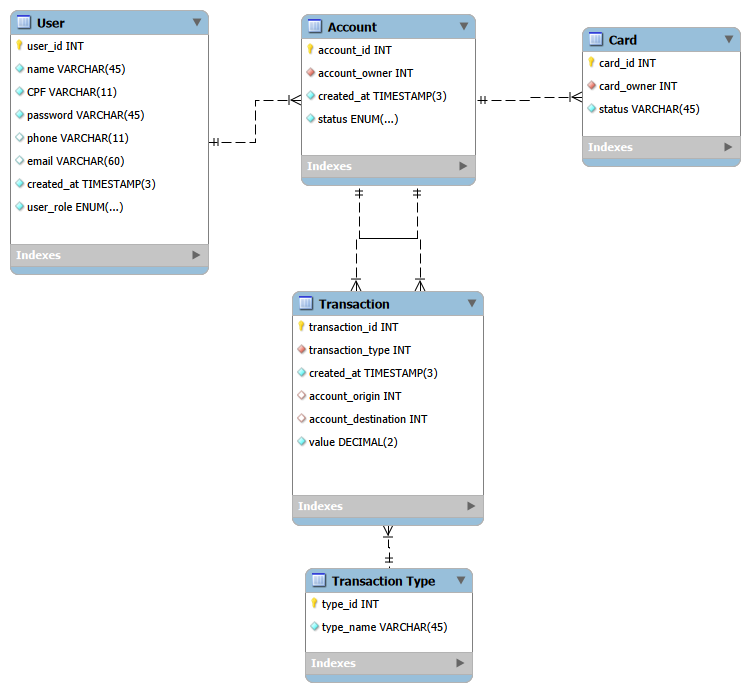
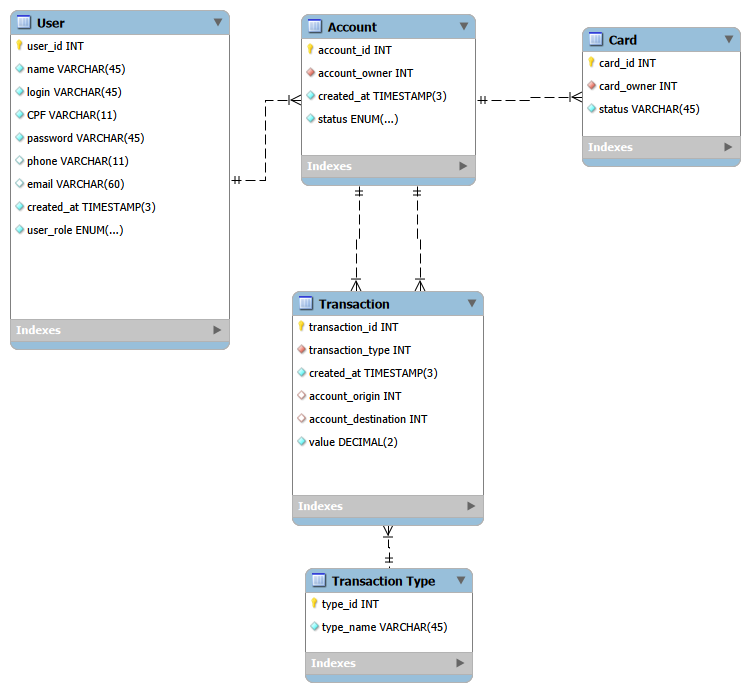
feat/fix: Fixing auth and identity to suport login and creating an admin user by default

diff --git a/src/identity/identity.service.ts b/src/identity/identity.service.ts
@@ -1,16 +1,36 @@
-import { Injectable } from '@nestjs/common';
+import { Injectable, OnModuleInit } from '@nestjs/common';
 import { InjectRepository } from '@nestjs/typeorm';
 import { User } from './models/User';
 import { Repository } from 'typeorm';
 import { UserSave, UserUpdate } from './dto/UserSave';
 import { UserNotFoundException } from './exceptions/UserNotFound';
+import { UserRole } from 'src/auth/roles';
+import { hash, genSalt } from 'bcrypt';
 
 @Injectable()
-export class IdentityService {
+export class IdentityService implements OnModuleInit{
     constructor(
         @InjectRepository(User)
         private userRepository: Repository<User>,
     ) {}
+    
+    async onModuleInit() {
+        const user = await this.userRepository.findOneBy({login: process.env.ADMIN_LOGIN ?? ""})
+
+        if(user == null) {
+            this.userRepository.save(new UserSave(
+                'admin', 
+                process.env.ADMIN_LOGIN ?? "",
+                await hash(process.env.ADMIN_PASSWORD ?? "", await genSalt()),
+                "00000000000",
+                "",
+                "",
+                new Date(Date.now()), 
+                UserRole.manager)
+            );
+        }
+    
+    }
 
     public save (user: UserSave) {
         return this.userRepository.save(user);
@@ -22,6 +42,16 @@ export class IdentityService {
 
     public async findById(id: string) {
         const user = await this.userRepository.findOneBy({user_id: id});
+
+        if(user == null) {
+            throw new UserNotFoundException();
+        }
+
+        return user;
+    }
+
+    public async findByLogin(login: string) {
+        const user = await this.userRepository.findOneBy({login: login});
 
         if(user == null) {
             throw new UserNotFoundException();

diff --git a/src/identity/dto/UserMapper.ts b/src/identity/dto/UserMapper.ts
@@ -7,7 +7,7 @@ import { UserSave } from "./UserSave";
 export class UserMapper {
 
     static toUserSaveDto(user: UserRequest, password: string, created_at: Date, user_role: UserRole): UserSave {
-        return new UserSave(user.name, password, user.cpf, user.phone, user.email, created_at, user_role);
+        return new UserSave(user.name, user.login, password, user.cpf, user.phone, user.email, created_at, user_role);
     }
 
     static toUserResponseDto(user : User) : UserResponse {
@@ -15,7 +15,9 @@ export class UserMapper {
         const sanitizedPhone = user.phone ?? "";
         const sanitizedEmail = user.email ?? "";
 
-        return new UserResponse(user.user_id, user.name, user.password, user.cpf, sanitizedPhone, sanitizedEmail, user.created_at, userRoleName);
+        console.log(user.login);
+
+        return new UserResponse(user.user_id, user.name, user.login, user.password, user.cpf, sanitizedPhone, sanitizedEmail, user.created_at, userRoleName);
     }
 
 }

diff --git a/src/auth/auth.controller.ts b/src/auth/auth.controller.ts
@@ -16,13 +16,14 @@ export class AuthController {
     @HttpCode(200)
     public async login(@Body() loginRequest: LoginRequest) {
 
-        const user = await this.IdentityService.findByCpf(loginRequest.cpf);
+        const user = loginRequest.login ? await this.IdentityService.findByLogin(loginRequest.login) : loginRequest.cpf ? await this.IdentityService.findByCpf(loginRequest.cpf) : null;
+        const isValid : boolean = user == null ? false : await bcrypt.compare(loginRequest.password, user.password)
 
-        if(!bcrypt.compare(loginRequest.password, user.password)) {
+        if(!isValid) {
             throw new HttpException("Incorrect credentials.", HttpStatus.UNAUTHORIZED);
         }
 
-        return new LoginResponse(await this.AuthService.login(user.user_id, user.name));
+        return new LoginResponse(await this.AuthService.login(user!.user_id, user!.name));
     }
 
 }

diff --git a/src/identity/dto/UserResponse.ts b/src/identity/dto/UserResponse.ts
@@ -1,6 +1,7 @@
 export class UserResponse {
     user_id: string;
     name: string;
+    login: string;
     password: string;
     cpf: string;
     phone: string;
@@ -8,9 +9,10 @@ export class UserResponse {
     created_at: Date;
     user_role: string;
 
-    constructor(user_id, name, password, cpf, phone, email, created_at, user_role) {
+    constructor(user_id, name, login, password, cpf, phone, email, created_at, user_role) {
         this.user_id = user_id;
         this.name = name;
+        this.login = login;
         this.password = password;
         this.cpf = cpf;
         this.phone = phone;

diff --git a/src/identity/dto/UserSave.ts b/src/identity/dto/UserSave.ts
@@ -2,6 +2,7 @@ import { PartialType } from "@nestjs/swagger";
 
 export class UserSave  {
     name: string;
+    login: string;
     cpf: string;
     password: string;
     phone: string;
@@ -9,8 +10,9 @@ export class UserSave  {
     created_at: Date;
     user_role: string;
 
-    constructor(name, password, cpf, phone, email, created_at, user_role) {
+    constructor(name, login, password, cpf, phone, email, created_at, user_role) {
         this.name = name;
+        this.login = login;
         this.password = password;
         this.cpf = cpf;
         this.phone = phone;

diff --git a/src/identity/models/User.ts b/src/identity/models/User.ts
@@ -1,9 +1,5 @@
+import { UserRole } from "src/auth/roles";
 import { Column, Entity, PrimaryGeneratedColumn } from "typeorm";
-
-export enum UserRole {
-    "manager",
-    "client"
-}
 
 @Entity({name: "tb_user"})
 export class User {
@@ -13,6 +9,9 @@ export class User {
 
     @Column({type: "varchar", length: 45, nullable: false, unique: true})
     name: string;
+
+    @Column({type: "varchar", length: 45, nullable: false, unique: true})
+    login: string;
 
     @Column({type: "text", nullable: false})
     password: string;

diff --git a/src/identity/dto/UserRequest.ts b/src/identity/dto/UserRequest.ts
@@ -7,6 +7,8 @@ export class UserRequest {
     })
     name: string;
 
+    login: string;
+
     password: string;
 
     @ApiProperty({

diff --git a/src/auth/dto/loginRequest.ts b/src/auth/dto/loginRequest.ts
@@ -1,6 +1,7 @@
 export class LoginRequest {
 
     cpf : string;
+    login: string;
     password: string;
 
 }
